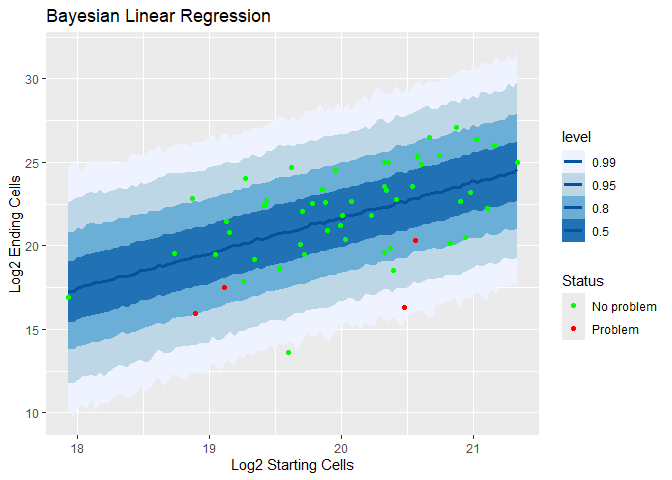
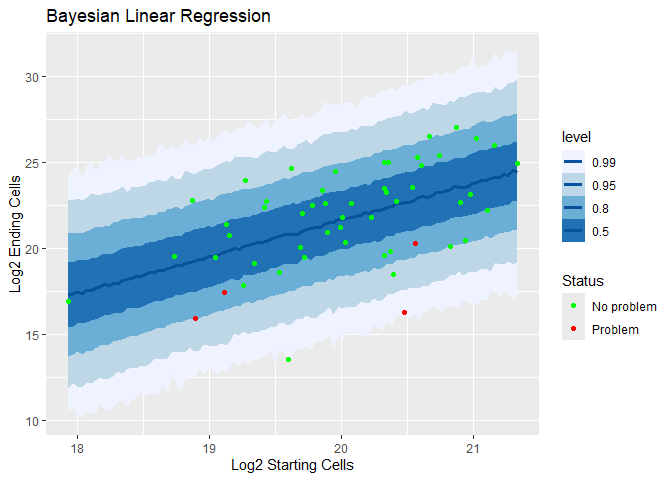
Updated intro and conclusion

diff --git a/Exponential_growth_models.md b/Exponential_growth_models.md
@@ -4,13 +4,17 @@ Benjamin I. Espen 2026-07-28
 
 # Cell expansion processes in cell and gene therapy
 
-This is an exploration of how I gain insight from data. The data I will be using is derived from real data, but has been anonymized and manipulated to isolate it from its source. I like using real(ish) data for this because real data has more surprises in it than simulated data does. Part of using data is deciding how to deal with all the complications and messiness that come with data collection. Real data is not perfect. It also does not need to be perfect before we can make use of it.
+Many people have now heard George E. P. Box’s saying that all models are wrong. What is perhaps less common is an exploration of how you gain value from a model you know to be wrong. Here I will walk through a process of systematically evaluating models from simpler to more complex using an example drawn from my experience. I will also show how I used a model that does not incorporate every important feature of the data to make real decisions.
+
+The data I will be using is derived from real data, but has been anonymized and manipulated to isolate it from its source. I like using real(ish) data for this because real data has more surprises in it than simulated data does. Part of using data is deciding how to deal with all the complications and messiness that come with data collection. Real data is not perfect. It also does not need to be perfect before we can make use of it.
 
 For this I will be using cell count data from cellular expansion processes. Cell expansion processes are common to most cell and gene therapy products, as you almost always start with fewer cells than you would like to use. The biological heart of a cellular expansion process is cellular division: one cell divides into two cells.
 
 ## Exponential growth model
 
-This then suggests a model we might use: exponential growth. This model multiplies a doublings per unit time parameter represented by $T_D$ by an elapsed time to calculate the number of doublings. A standard exponential growth model uses a base of *e*, but for cell growth the natural base is *2*. The result from raising *2* to the number of doublings is then multiplied by your starting cell count $q_1$ to produce a final cell count $q_2$.
+This then suggests a model we might use: exponential growth. I like to build my statistical models on the physical, chemical, or biological processes that I am trying to understand, because this allows me to incorporate all of the science or engineering that led up to our understanding of that process.
+
+This model multiplies a doublings per unit time parameter represented by $T_D$ by an elapsed time to calculate the number of doublings. A standard exponential growth model uses a base of *e*, but for cell growth the natural base is *2*. The result from raising *2* to the number of doublings is then multiplied by your starting cell count $q_1$ to produce a final cell count $q_2$.
 
 $q_2 = q_1 * 2^{T_D * (t_2 - t_1)}$
 
@@ -19,13 +23,13 @@ $q_2 = q_1 * 2^{T_D * (t_2 - t_1)}$
 If we have a couple of cell counts with associated times, we can calculate $T_D$. Let’s look at an example that has been taken from a real data set, suitably anonymized.
 
 ``` r
-# Make a data frame containing two cell counts at two elapsed times
+# Make a tibble containing two cell counts at two elapsed times
 df_exponential_growth <- as_tibble(data.frame(
   cell_number = c(15000 , 98000),
   elapsed_time = c(12 , 192)
 ))
 
-# Show the data frame
+# Show the tibble
 df_exponential_growth
 ```
 
@@ -219,7 +223,7 @@ That is much closer, although you can still see that the cell counts are systema
 
 ## Logistic growth model
 
-This kind of growth process that slows and then stops can be modeled as logistic growth. There are a lot of ways to parametrize logistic functions, here I’m going to follow along with what I used for exponential growth. *L* is the lower asymptote, or our starting cell count, *U* is the upper asymptote, $T_D$ is again our rate parameter, and *M* is the inflection point of the logistic curve in hours.
+This kind of growth process that slows and then stops can be modeled as logistic growth. There are a lot of ways to parametrize logistic functions, here I’m going to follow along with what I used for exponential growth. $L$ is the lower asymptote, or our starting cell count, $U$ is the upper asymptote, $T_D$ is again our rate parameter, and $M$ is the inflection point of the logistic curve in hours.
 
 $q_2 = U + \frac{L-U}{1+2^{T_D*(t-M)}}$
 
@@ -252,7 +256,7 @@ Logistic_cell_growth
 
 ``` r
 # Plot the data 
-Logistic_cell_growth %>% 
+Logistic_cell_growth |> 
   ggplot(aes(x = Time, y = Cell_count)) +
   geom_point(size = 3) +
   labs(
@@ -343,6 +347,7 @@ $\frac{log_2(238981/5171)}{285-0} = 0.019$
 $\frac{log_2(246279/5171)}{360-0} = 0.015$
 
 ``` r
+knitr::opts_chunk$set(warnings=FALSE, messages=FALSE)
 # Create new columns for each model
 logistic_fit_df <- logistic_fit_df |>
   mutate(
@@ -472,21 +477,21 @@ Cell_lin_model$fit
 ## post-warmup draws per chain=1000, total post-warmup draws=4000.
 ## 
 ##                          mean se_mean   sd    2.5%     25%     50%     75%
-## b_Intercept            -20.54    0.16 9.80  -39.95  -27.22  -20.25  -13.93
-## b_Log2_starting_cells    2.11    0.01 0.49    1.18    1.78    2.10    2.44
-## sigma                    2.55    0.00 0.25    2.12    2.36    2.53    2.71
-## Intercept               21.72    0.01 0.35   21.06   21.49   21.72   21.95
-## lprior                  -7.70    0.00 0.23   -8.21   -7.84   -7.69   -7.54
-## lp__                  -131.66    0.03 1.26 -134.97 -132.22 -131.32 -130.76
+## b_Intercept            -20.36    0.15 9.82  -39.46  -27.01  -20.42  -13.53
+## b_Log2_starting_cells    2.10    0.01 0.49    1.16    1.76    2.11    2.43
+## sigma                    2.55    0.00 0.26    2.11    2.37    2.53    2.71
+## Intercept               21.72    0.01 0.35   21.02   21.49   21.72   21.95
+## lprior                  -7.70    0.00 0.23   -8.22   -7.85   -7.68   -7.54
+## lp__                  -131.70    0.03 1.28 -134.92 -132.29 -131.37 -130.75
 ##                         97.5% n_eff Rhat
-## b_Intercept             -1.99  3950    1
-## b_Log2_starting_cells    3.07  3957    1
-## sigma                    3.10  3985    1
-## Intercept               22.44  3433    1
-## lprior                  -7.31  3596    1
-## lp__                  -130.26  1892    1
+## b_Intercept             -1.50  4429    1
+## b_Log2_starting_cells    3.04  4426    1
+## sigma                    3.12  3806    1
+## Intercept               22.42  4022    1
+## lprior                  -7.30  4030    1
+## lp__                  -130.24  1992    1
 ## 
-## Samples were drawn using NUTS(diag_e) at Thu Oct 29 08:58:12 2026.
+## Samples were drawn using NUTS(diag_e) at Tue Nov 17 10:53:26 2026.
 ## For each parameter, n_eff is a crude measure of effective sample size,
 ## and Rhat is the potential scale reduction factor on split chains (at 
 ## convergence, Rhat=1).
@@ -515,4 +520,6 @@ The plot shows the linear regression along with 50%, 80%, 95%, and 99% posterior
 
 Slower than expected growth is associated with a problem, but it also clear that not everything that is slower than expected has a problem. Real root-cause analysis of this would require details that cannot be shared, but this modeling technique can provide valuable information as an input to a root-cause investigation.
 
-Each modeling technique presented here builds upon the one before it, but each one is also valuable in its own right. Based upon the amount of data available and the question to be answered, I have used each one of these models in my own workEach modeling technique presented here builds upon the one before it, but each one is also valuable in its own right. Based upon the amount of data available and the question to be answered, I have used each one of these models in my own work.
+## Conclusion
+
+Thus, we can see that a model we know to be wrong, an exponential growth model that only matches the data over a limited time frame, can still be an appropriate model to use for diagnosing important process changes. In this case, slower than expected or modeled growth was a useful criterion to help understand a cellular expansion process. There is a lot more that can be said here, but it is worth emphasizing that a simple mechanistic model and a linear regression produced actionable results.

diff --git a/README.md b/README.md
@@ -1,2 +1,7 @@
 # Cell_therapy_exponential_growth_models
 Exploring exponential growth models for cellular expansion processes
+
+## All Models are Wrong
+Many people have now heard George E. P. Box's saying that all models are wrong.
+What is perhaps less common is an exploration of how you gain value from a model
+you know to be wrong.
